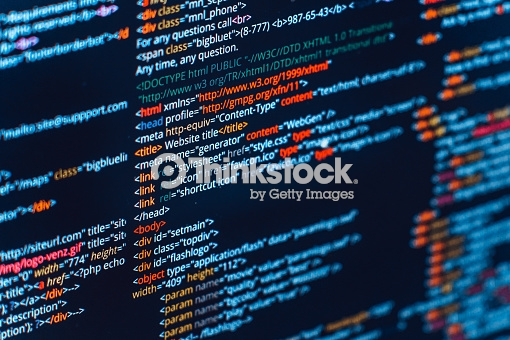
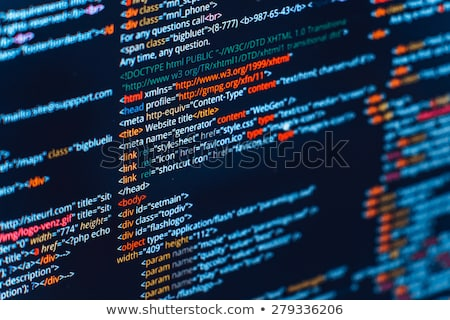
new photo for landing page

diff --git a/_layouts/codechallenge.html b/_layouts/codechallenge.html
@@ -18,7 +18,7 @@ layout: base
   <script>document.getElementsByTagName("html")[0].className += " js";</script>
 
 <section>
-	<div class="usa-hero" style="background-image: url('../assets/img/banners/dektop-orange.jpg')">
+	<div class="usa-hero" style="background-image: url('../assets/img/banners/code-challenge-3.jpg')">
   <div class="usa-grid">
 		<div class="usa-hero-callout usa-section hero-styling" style="background-color: rgba(244, 140, 0, 0.9); margin-top:7rem;margin-bottom:7rem;max-width:unset;">
 			<center><h2 style="font-family: 'Raleway', sans-serif; COLOR: #ffffff; font-size: 40px; text-align: center;">Front End Challenge</h2>
